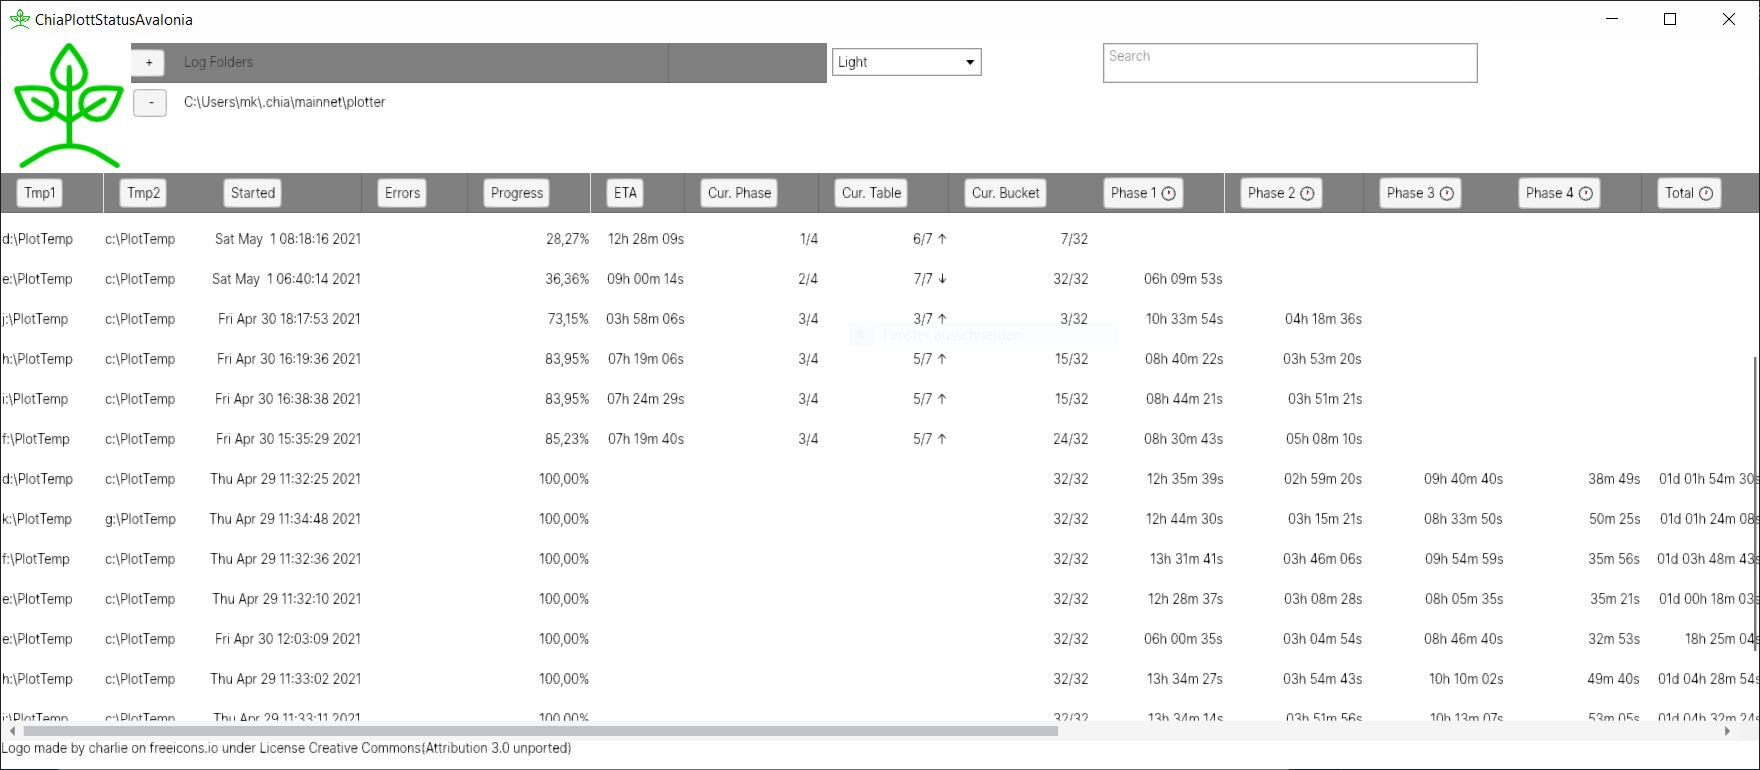
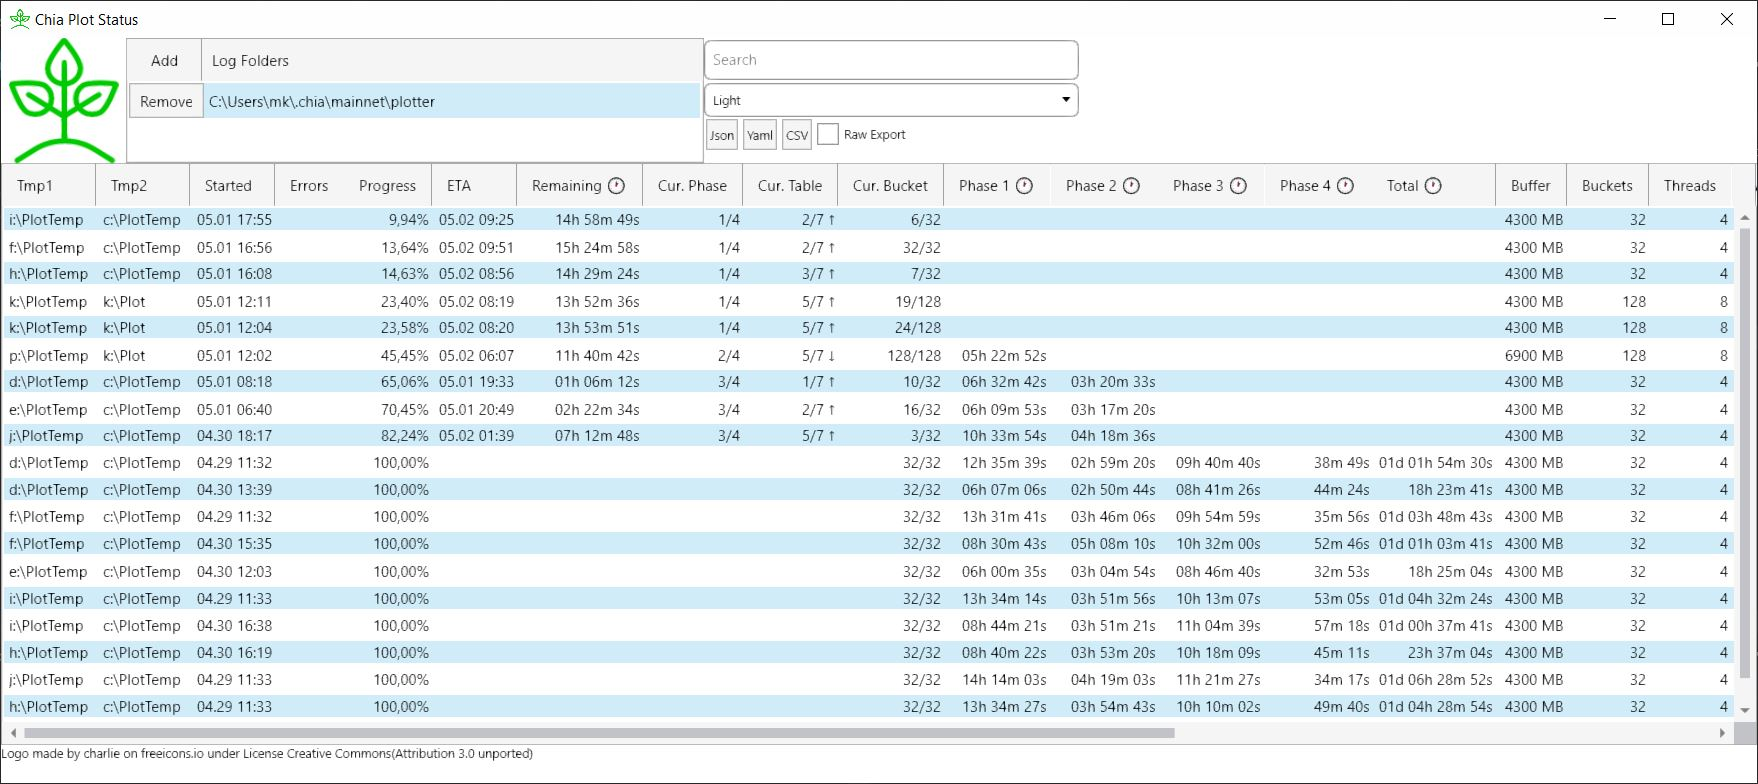
refs #14 styling reworked, fluent thrown out as it caused a lot of problems

diff --git a/README.md b/README.md
@@ -5,6 +5,7 @@
 # [Chia](https://www.chia.net/) Plot Status
 
 ![Screenshot](./Screenshot.jpg)
+![Screenshot](./Screenshot-Dark.jpg)
 
 ## Features
 
@@ -17,7 +18,7 @@
 
 ## Installation / Download
 
-[Download latest version busy-harvester](https://grayfallstown.github.io/Chia-Plot-Status/Setup.exe)
+[Download latest version overgrown-field](https://grayfallstown.github.io/Chia-Plot-Status/Setup.exe)
 
 ## Working with many distributed plotting rigs
 
